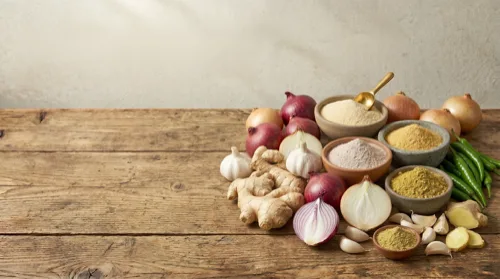
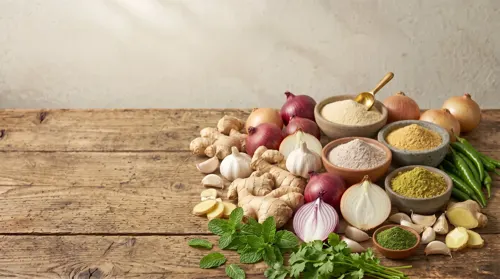
Use new category photos on home cards and as faint hero washes
Regenerated the five category photos and wired them in two places:

- Homepage cards now each have their own image. Card 3 (Functional &
  Nutritional) was sharing dehydrated-veg-powder.webp with card 7; it now
  points at its own file, and card 8 (Edible Seeds & Kernels) finally has a
  photo instead of falling back to gradient + emoji.
- Category heroes get the same photo full-bleed but washed back behind the
  accent gradient via a new optional `bgImage` field and `.cathero-bg`. This
  is deliberately not `.cathero-photo`: that one is a feature image at full
  opacity masked to the right, whereas this is texture — low opacity,
  soft-light, and masked so it stays faintest under the copy.

Culinary & Spice keeps its existing `heroImage` treatment for now; Fruit
Powders and Hydrocolloids have no new photo, so they keep the emoji motif.

Also carries the earlier card header rename (cards 2/3/4) so the homepage
matches the nav dropdown, with the matching i18n across all 17 locales.

diff --git a/src/data/products.ts b/src/data/products.ts
@@ -31,6 +31,7 @@ export interface Category {
   accentFrom: string;
   accentTo: string;
   heroImage?: string; // optional right-side hero photo (replaces the emoji motif)
+  bgImage?: string; // optional full-bleed hero photo, washed out behind the accent gradient
   thumbSlugs?: string[]; // optional: pin which products appear in the 4-image preview grid
 }
 
@@ -63,6 +64,7 @@ export const categories: Category[] = [
     thumbSlugs: ["ashwagandha-powder", "shatavari-powder", "moringa-powder", "triphala-powder"],
     accentFrom: "#1f7a4d",
     accentTo: "#0f6b4a",
+    bgImage: "/assets/img/categories/herbal-leaf-hero.webp",
   },
   {
     slug: "culinary-spice-powders",
@@ -87,6 +89,7 @@ export const categories: Category[] = [
       "Beetroot, lemon, amla and more — fruit and herb powders chosen for natural colour, nutrition and clean-label functionality in supplements, seasonings, soups and ready meals.",
     accentFrom: "#be185d",
     accentTo: "#9d174d",
+    bgImage: "/assets/img/categories/functional-nutritional-powder-hero.webp",
   },
   {
     slug: "dehydrated-vegetable-powders",
@@ -98,6 +101,7 @@ export const categories: Category[] = [
       "Tomato, carrot, jackfruit and more — dehydrated vegetable powders that concentrate natural colour, flavour and nutrition into a shelf-stable form for soups, sauces, seasonings and ready meals.",
     accentFrom: "#0d9488",
     accentTo: "#0f766e",
+    bgImage: "/assets/img/categories/dehydrated-veg-powder-hero.webp",
   },
   {
     slug: "fruit-powders",
@@ -121,6 +125,7 @@ export const categories: Category[] = [
       "Watermelon, melon (magaz), pumpkin and chia — edible seeds and hulled kernels, machine-cleaned, colour-sorted and graded to a consistent purity and count for snacking, bakery, confectionery and nutrition brands.",
     accentFrom: "#6f8630",
     accentTo: "#4d5f21",
+    bgImage: "/assets/img/categories/edible-seeds-kernels-hero.webp",
   },
   {
     slug: "hydrocolloids-food-additives",

diff --git a/public/css/styles.css b/public/css/styles.css
@@ -1308,6 +1308,22 @@ html:not(.js-ready) .reveal {
   .cathero-photo { opacity: .18; -webkit-mask-image: none; mask-image: none; }
   .cathero.has-photo .cathero-sub { max-width: none; }
 }
+/* full-bleed category photo washed right back into the accent gradient.
+   Unlike .cathero-photo this is not a feature image — it is texture, so it sits
+   low in opacity and fades out further on the left where the copy sits. */
+.cathero-bg {
+  position: absolute; inset: 0; z-index: -1; pointer-events: none;
+  background-size: cover; background-position: center; background-repeat: no-repeat;
+  opacity: .22; filter: saturate(.7) contrast(.95);
+  mix-blend-mode: soft-light;
+  -webkit-mask-image: linear-gradient(90deg, rgba(0,0,0,.25) 0%, rgba(0,0,0,.6) 40%, #000 75%);
+  mask-image: linear-gradient(90deg, rgba(0,0,0,.25) 0%, rgba(0,0,0,.6) 40%, #000 75%);
+}
+@media (max-width: 860px) {
+  /* no side-by-side split on mobile, so pull it back further and drop the mask */
+  .cathero-bg { opacity: .16; -webkit-mask-image: none; mask-image: none; }
+}
+
 .crumb-on-dark, .crumb-on-dark a { color: rgba(255,255,255,.78); }
 .crumb-on-dark a:hover { color: #fff; }
 .cathero-emoji { display: block; font-size: 2.4rem; margin-top: 1.5rem; }
